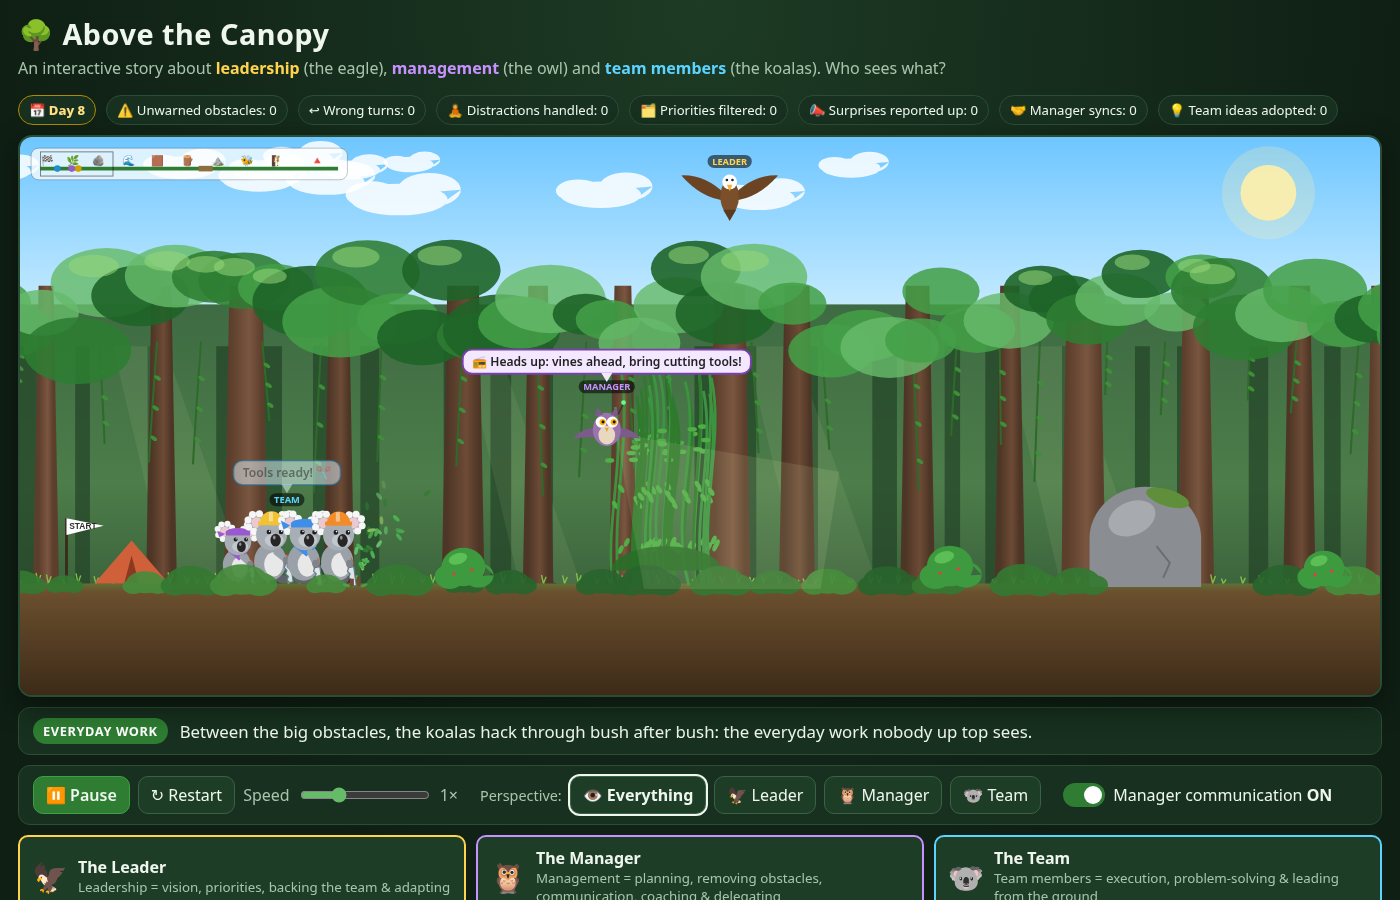
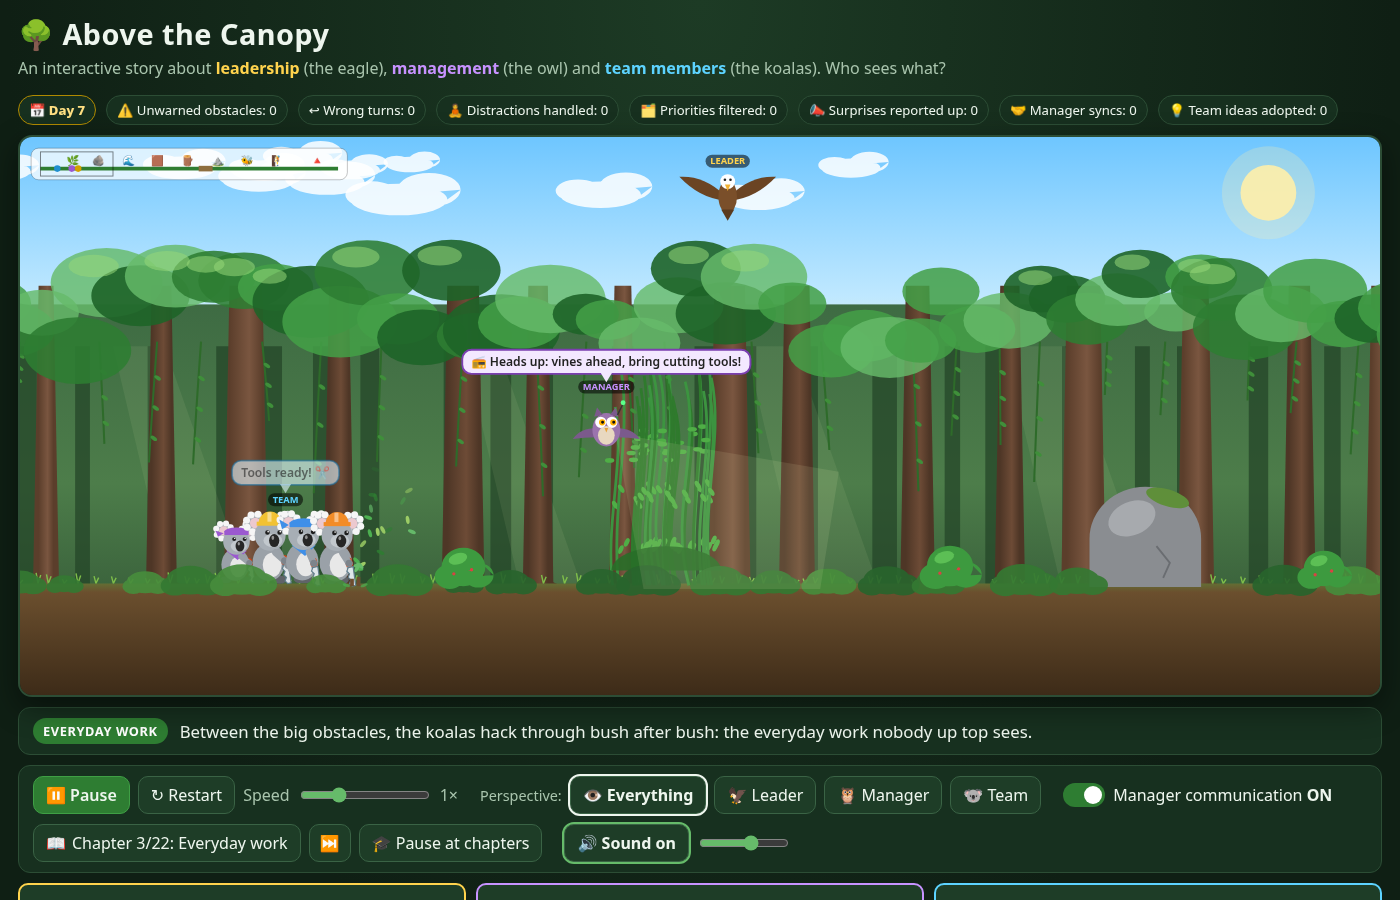
v6.1: remove start flag/tent (leader sees the team and the goal), fully fade out tree and snake, refresh docs

diff --git a/src/AboveTheCanopy/wwwroot/js/canopy.js b/src/AboveTheCanopy/wwwroot/js/canopy.js
@@ -300,7 +300,7 @@ function reset() {
     mgr: { x: START_X + 140, y: MANAGER_Y, dy: 0, alert: 0, ready: false, ox: 0, oy: 0, rot: 0, dist: null, focusT: 0, meeting: null, task: null, busy: false },
     leader: { x: START_X + 260, y: LEADER_Y, beam: null, beamT: 0, ox: 0, oy: 0, rot: 0, dist: null, meeting: null },
     bubbles: [], queue: { leader: [], manager: [], team: [], visitor: [] }, pulses: [], events: [], particles: [],
-    caption: '', phase: '', capT: 0, cap: null, capQ: [], pend: [], finished: false, introCam: 'start', selected: null, hover: -1,
+    caption: '', phase: '', capT: 0, cap: null, capQ: [], pend: [], finished: false, introCam: 'team', selected: null, hover: -1,
     idea: { started: false, adopted: false, go: false, goT: 0, saved: 0, bulb: false }, drop: null, leafFly: null, kb: [], kpos: [],
     coachDone: false, breakDone: false, marks: new Set(['start']), chapter: 0, silent: false, quiet: false, tapT: 0, tapN: 0, finArgs: null, teachAt: null,
     nextLeaderTalk: 26, leaderTalkI: 0, nextCheckin: 34, checkinI: 0,
@@ -388,8 +388,8 @@ function agentPos(who) {
 }
 
 function scheduleIntro() {
-  caption('High above the canopy, the Leader can see where the team starts... ', 'Vision');
-  S.leader.beam = 'start'; S.leader.beamT = 2.6;
+  caption('High above the canopy, the Leader can see where the team is right now, already hard at work... ', 'Vision');
+  S.leader.beam = 'team'; S.leader.beamT = 2.6;
   later(2.6, () => {
     S.introCam = 'goal'; sfx('screech');
     S.leader.beam = 'goal'; S.leader.beamT = 3.2;
@@ -435,7 +435,7 @@ function sequenceFor(o, informed) {
       { dur: 2.6, mood: 'work', prog: true },
     ] : [
       { dur: 1.6, mood: 'stuck', cap: 'Nobody warned them: the koalas walk into a tangle of vines and get stuck!', say: 'We\'re stuck! 😩', surprise: true },
-      { dur: 1.8, mood: 'confused', move: -70, wrong: true, cap: 'Someone runs back to camp for better tools...' },
+      { dur: 1.8, mood: 'confused', move: -70, wrong: true, cap: 'Someone runs all the way back for better tools...' },
       { dur: 1.6, mood: 'walk', move: 70 },
       { dur: 3.4, mood: 'work', prog: true, cap: 'Finally, they start hacking through the vines.' },
     ];
@@ -1072,7 +1072,7 @@ function visitorPos(M, i) {
 
 // ---------- camera ----------
 function updateCamera(dt) {
-  if (S.introCam === 'start') camTarget = 0;
+  if (S.introCam === 'team') camTarget = 0;
   else if (S.introCam === 'goal') camTarget = GOAL_X + 260 - viewW;
   else if (S.finished) camTarget = GOAL_X + 300 - viewW;
   else camTarget = S.team.x - viewW * 0.3;
@@ -1178,20 +1178,6 @@ function drawHangingVines() {
       ctx.beginPath(); ctx.ellipse(x + sway * k * 1.4 + 3, CANOPY_BOTTOM - 25 + v.len * k, 4, 2, 0.6, 0, 7); ctx.fill();
     }
   }
-}
-
-function drawStartCamp() {
-  const x = START_X - camX;
-  if (x < -100 || x > viewW + 100) return;
-  ctx.fillStyle = '#d0603a';
-  ctx.beginPath(); ctx.moveTo(x - 40, GROUND); ctx.lineTo(x, GROUND - 46); ctx.lineTo(x + 40, GROUND); ctx.closePath(); ctx.fill();
-  ctx.fillStyle = '#8a3a20';
-  ctx.beginPath(); ctx.moveTo(x - 8, GROUND); ctx.lineTo(x, GROUND - 30); ctx.lineTo(x + 8, GROUND); ctx.closePath(); ctx.fill();
-  ctx.strokeStyle = '#3a2a1a'; ctx.lineWidth = 3;
-  ctx.beginPath(); ctx.moveTo(x - 70, GROUND); ctx.lineTo(x - 70, GROUND - 70); ctx.stroke();
-  ctx.fillStyle = '#ffffff';
-  ctx.beginPath(); ctx.moveTo(x - 70, GROUND - 70); ctx.lineTo(x - 30, GROUND - 62); ctx.lineTo(x - 70, GROUND - 52); ctx.fill();
-  ctx.fillStyle = '#2d2d2d'; ctx.font = 'bold 9px sans-serif'; ctx.fillText('START', x - 67, GROUND - 58);
 }
 
 function drawRiver(front) {
@@ -1445,7 +1431,7 @@ function drawBeam() {
   const L = S.leader; if (!L.beam) return;
   const lx = L.x - camX, ly = L.y;
   const creek = L.beam === 'creek';
-  const tx = (creek ? (CREEK.x0 + CREEK.x1) / 2 : L.beam === 'goal' ? GOAL_X : START_X) - camX, ty = creek ? GROUND + 26 : L.beam === 'goal' ? PYR_APEX + 6 : CANOPY_TOP + 10;
+  const tx = (creek ? (CREEK.x0 + CREEK.x1) / 2 : L.beam === 'goal' ? GOAL_X : S.team.x - MEMBER_GAP * 1.5) - camX, ty = creek ? GROUND + 26 : L.beam === 'goal' ? PYR_APEX + 6 : memberY(S.team.x) - 70;
   const a = Math.min(1, L.beamT) * 0.8;
   if (creek) { // course correction: the beam re-aims at the better route, then on to the pyramid
     ctx.save(); ctx.globalAlpha = a; ring(tx, ty, 26 + Math.sin(S.t * 4) * 3, '#ffd34d'); ctx.restore();
@@ -1465,7 +1451,7 @@ function drawBeam() {
     const ex = tx > viewW ? viewW - 70 : 70;
     ctx.fillStyle = `rgba(0,0,0,${a * 0.6})`; rr(ex - 58, 18, 116, 26, 13); ctx.fill();
     ctx.fillStyle = `rgba(255,211,77,${a + 0.2})`; ctx.font = 'bold 13px system-ui, sans-serif'; ctx.textAlign = 'center';
-    ctx.fillText(L.beam === 'goal' ? 'Pyramid  ➜' : '⬅  Start', ex, 36); ctx.textAlign = 'left';
+    ctx.fillText(L.beam === 'goal' ? 'Pyramid  ➜' : '⬅  The team', ex, 36); ctx.textAlign = 'left';
   }
 }
 
@@ -1557,7 +1543,7 @@ function drawFog() {
 function drawViewBanner() {
   const v = settings.view; if (v === 'all') return;
   const text = {
-    leader: '🦅 LEADER VIEW: sees the start and the goal, but not the ground',
+    leader: '🦅 LEADER VIEW: sees the team and the goal, but not the ground',
     manager: '🦉 MANAGER VIEW: sees the obstacles ahead, but not the far-off goal',
     team: '🐨 TEAM VIEW: the koalas see only what\'s right in front of them',
   }[v];
@@ -2228,9 +2214,9 @@ function drawSurprises(late) {
       const n = Math.floor(sp.prog * 6 + 0.0001);
       ctx.fillStyle = '#9a6a3a'; ctx.strokeStyle = '#5a3a1a'; ctx.lineWidth = 1;
       for (let k = 0; k < n; k++) { const px = x - 8 + k * (sp.w + 16) / 6; ctx.fillRect(px, gy - 5, (sp.w + 16) / 6 - 2, 9); ctx.strokeRect(px, gy - 5, (sp.w + 16) / 6 - 2, 9); }
-    } else if (sp.type === 'treefall') {
+    } else if (sp.type === 'treefall' && !sp.done && sp.prog < 1) {
       const bx = x + sp.w + 40, Lt = 175, e = ease(sp.rev);
-      const lift = sp.prog * 24, fade = 1 - sp.prog * 0.55, shrink = 1 - sp.prog * 0.25;
+      const lift = sp.prog * 24, fade = 1 - sp.prog * sp.prog, shrink = 1 - sp.prog * 0.25;
       ctx.save(); ctx.globalAlpha = fade; ctx.translate(bx, gy - lift - 26 * e); ctx.scale(shrink, shrink); ctx.rotate(-Math.PI / 2 * e);
       ctx.fillStyle = '#8a5a34'; ctx.strokeStyle = '#3e2410'; ctx.lineWidth = 2.5; ctx.fillRect(-14, -Lt, 28, Lt); ctx.strokeRect(-14, -Lt, 28, Lt);
       ctx.fillStyle = '#e3c08a'; ctx.beginPath(); ctx.ellipse(0, 0, 14, 5, 0, 0, 7); ctx.fill(); ctx.stroke(); // fresh broken base
@@ -2241,10 +2227,10 @@ function drawSurprises(late) {
       for (const [cx2, cy2, r2] of [[0, -Lt - 8, 34], [-22, -Lt + 14, 24], [22, -Lt + 12, 24]]) { ctx.beginPath(); ctx.arc(cx2, cy2, r2, 0, 7); ctx.fill(); }
       ctx.restore();
       if (sp.rev > 0.97 && sp.rev < 1 && !sp.crashed) { sp.crashed = true; for (let i = 0; i < 16; i++) leaf(sp.x + Math.random() * 40, gy - 20); }
-    } else if (sp.type === 'snake' && sp.rev > 0) {
+    } else if (sp.type === 'snake' && sp.rev > 0 && !sp.done && sp.prog < 1) {
       const leaving = sp.prog > 0, dir = leaving ? 1 : -1;
       const hx = leaving ? lerp(x + sp.w * 0.35, x + sp.w + 160, ease(sp.prog)) : lerp(x + sp.w + 90, x + sp.w * 0.35, ease(sp.rev));
-      ctx.save(); ctx.globalAlpha = leaving ? 1 - sp.prog * 0.8 : 1;
+      ctx.save(); ctx.globalAlpha = leaving ? 1 - sp.prog : 1;
       ctx.translate(hx, gy); ctx.scale(1.7, 1.7); ctx.translate(-hx, -gy - 3); // big enough to read, in front of the bush row
       const pts = []; for (let k = 0; k < 24; k++) pts.push([hx - dir * k * 5, gy - 4 + Math.sin(k * 0.55 - S.t * 7 * (sp.done ? 0 : 1)) * 4]);
       ctx.lineCap = 'round'; ctx.lineJoin = 'round';
@@ -2321,7 +2307,6 @@ function drawMiniMap() {
     ctx.beginPath(); ctx.moveTo(x + 10 + CREEK.x0 * k, y + 22); ctx.quadraticCurveTo((lx0 + lx1) / 2, y + 33, x + 10 + CREEK.x1 * k, y + 22); ctx.stroke(); ctx.restore();
   }
   ctx.font = '11px sans-serif';
-  ctx.fillText('🏁', x + 10 + START_X * k - 6, y + 17);
   for (const o of S.obstacles) { ctx.globalAlpha = o.done ? 0.35 : 1; ctx.fillText(o.icon, x + 10 + o.x * k - 6, y + 17); ctx.globalAlpha = 1; }
   for (const o of S.surprises) { if (o.rev <= 0) continue; ctx.globalAlpha = o.done ? 0.35 : 1; ctx.fillText('❓', x + 10 + o.x * k - 6, y + 17); ctx.globalAlpha = 1; }
   ctx.fillText('🔺', x + 10 + GOAL_X * k - 6, y + 17);
@@ -2340,7 +2325,6 @@ function render() {
   drawRiver(false);
   drawGround();
   drawBog(false);
-  drawStartCamp();
   drawBoulder();
   drawCliff();
   drawWall();

diff --git a/src/AboveTheCanopy/Models/Chapters.cs b/src/AboveTheCanopy/Models/Chapters.cs
@@ -11,7 +11,7 @@ public static class Chapters
     public static readonly IReadOnlyList<Chapter> All = new Chapter[]
     {
         new("start", "The vision",
-            "Only the Leader, high above the canopy, can see both where the team starts and the goal: the pyramid.",
+            "Only the Leader, high above the canopy, can see both where the team is now (already hard at work) and the goal: the pyramid.",
             new[] { "Who in your organisation can see the \"pyramid\"? How does everyone else find out about it?" }),
         new("dir", "Passing the direction down",
             "The Leader shares the vision with the Manager, who turns it into a plan and scouts the way.",
@@ -23,7 +23,7 @@ public static class Chapters
         new("ob:vines", "The vines: a warning in time",
             "Warned early, the koalas arrive with cutting tools ready and clear the vines straight away.",
             new[] { "Which warning saved your team time recently? Which one did you never get?" },
-            "Nobody warned them: the koalas get stuck in the vines and someone runs back to camp for tools."),
+            "Nobody warned them: the koalas get stuck in the vines and someone runs all the way back for tools."),
         new("coach", "Coaching Wattle",
             "Managers grow people: a minute of one-to-one coaching helps Wattle, the smallest koala, for the rest of the journey.",
             new[] { "Who in your team is quietly struggling, and who would notice?", "What is one thing you could coach someone on this week?" },

diff --git a/src/AboveTheCanopy/Models/RoleInfo.cs b/src/AboveTheCanopy/Models/RoleInfo.cs
@@ -7,7 +7,7 @@ public static class Roles
 {
     public static readonly RoleInfo Leader = new(
         "leader", "🦅", "The Leader", "Leadership = vision, priorities, backing the team & adapting",
-        "An eagle flying above the canopy. Sees where the team started and the end goal (the pyramid), but can't see the obstacles on the forest floor.",
+        "An eagle flying above the canopy. Sees where the team is right now and the end goal (the pyramid), but can't see the obstacles on the forest floor.",
         new[]
         {
             "Sets the vision: where are we going, and why?",
@@ -61,7 +61,7 @@ public static class Roles
 
     public static readonly RoleInfo Goal = new(
         "goal", "🔺", "The Goal", "The pyramid = the shared objective",
-        "Pokes out above the canopy, so only the leader can see it from the start.",
+        "Pokes out above the canopy, so only the leader can see it from above.",
         new[]
         {
             "A clear, visible objective everyone can rally around.",

diff --git a/README.md b/README.md
@@ -7,7 +7,7 @@ Time is measured like a real project, in **days**: the top bar counts *Day 1, Da
 
 | Role | Character | Where they are | What they can see | What they do |
 |---|---|---|---|---|
-| **Leader** | 🦅 Eagle | Flies *above* the canopy | Where the team started, and the pyramid (the goal) | **Vision, priorities, backing the team & adapting.** Sets the destination, filters competing priorities, says YES to what the team needs (and protects their time), changes the plan when better information comes up from the ground |
+| **Leader** | 🦅 Eagle | Flies *above* the canopy | Where the team is now, and the pyramid (the goal) | **Vision, priorities, backing the team & adapting.** Sets the destination, filters competing priorities, says YES to what the team needs (and protects their time), changes the plan when better information comes up from the ground |
 | **Manager** | 🦉 Owl | Flies *below* the canopy, above the team | The obstacles ahead | **Planning, removing obstacles, communication up & down, coaching & delegating.** Scouts ahead, warns the team, coaches and delegates, passes ideas up, calls breaks, recognises wins, coordinates with other managers |
 | **Team** | 🐨 Four koalas: Kip, Banjo, Matilda & Wattle | On the forest floor, cutting through the bush | Only a few metres ahead | **Execution, problem-solving & leading from the ground.** The everyday work, gathering materials, learning new skills, solving obstacles, reporting surprises, and spotting better ways to do things |
 
@@ -34,7 +34,7 @@ That's the constant day-to-day work that nobody above the canopy sees.
 
 | # | Obstacle | When the Manager warned them | When communication is OFF |
 |---|---|---|---|
-| 1 | 🌿 Tangle of vines | Arrive with cutting tools and cut straight through | Get stuck, run back to camp for better tools |
+| 1 | 🌿 Tangle of vines | Arrive with cutting tools and cut straight through | Get stuck, run all the way back for better tools |
 | 2 | 🪨 Giant boulder | **Upskill:** a quick hammer-and-chisel training session, then break the rock down together | Bonk into it, push, back-track, then teach themselves by trial and error (slowly) |
 | 3 | 🌊 Fast river | **Gather** logs from the bush and build a bridge | One koala wades in (splash!), then they scatter hunting for anything that floats |
 | 4 | 🟫 Smelly bog | **Gather** flat stones and lay stepping stones | One koala sinks to its tummy, then they wander off for rocks and test wobbly stones |
@@ -129,7 +129,7 @@ The button always shows the current chapter. **⏭** (or <kbd>N</kbd>) jumps to 
 
 | # | Chapter | Teaching point |
 |---|---|---|
-| 1 | The vision | Only the Leader can see both the start and the pyramid |
+| 1 | The vision | Only the Leader can see both where the team is now and the pyramid |
 | 2 | Passing the direction down | Leader ➜ Manager: the vision becomes a plan |
 | 3 | Everyday work | The bush hacking nobody up top sees |
 | 4 | The vines: a warning in time | Warned early, the right tools are ready |
